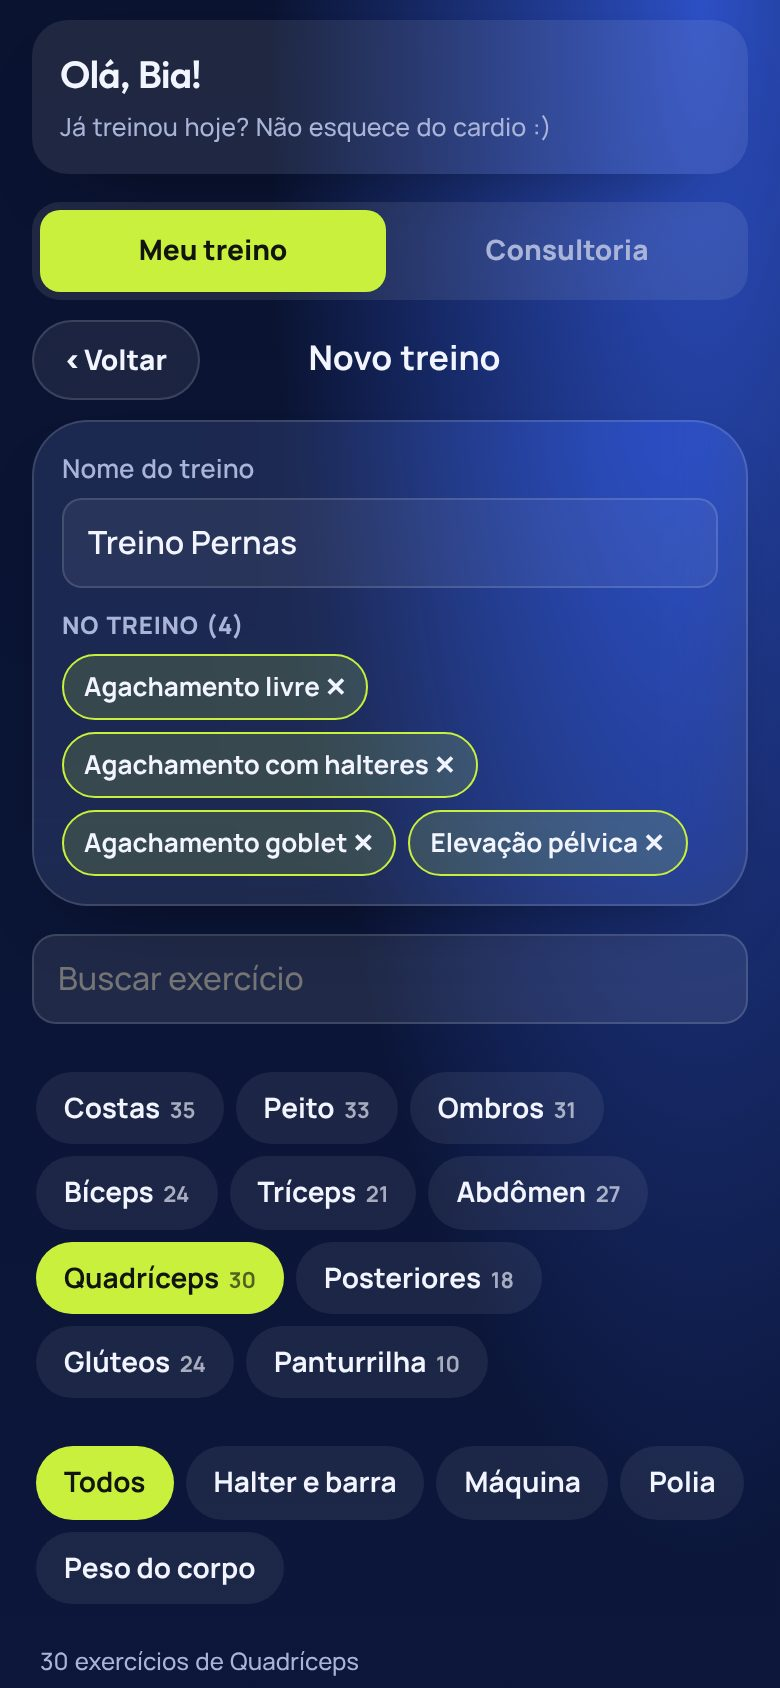
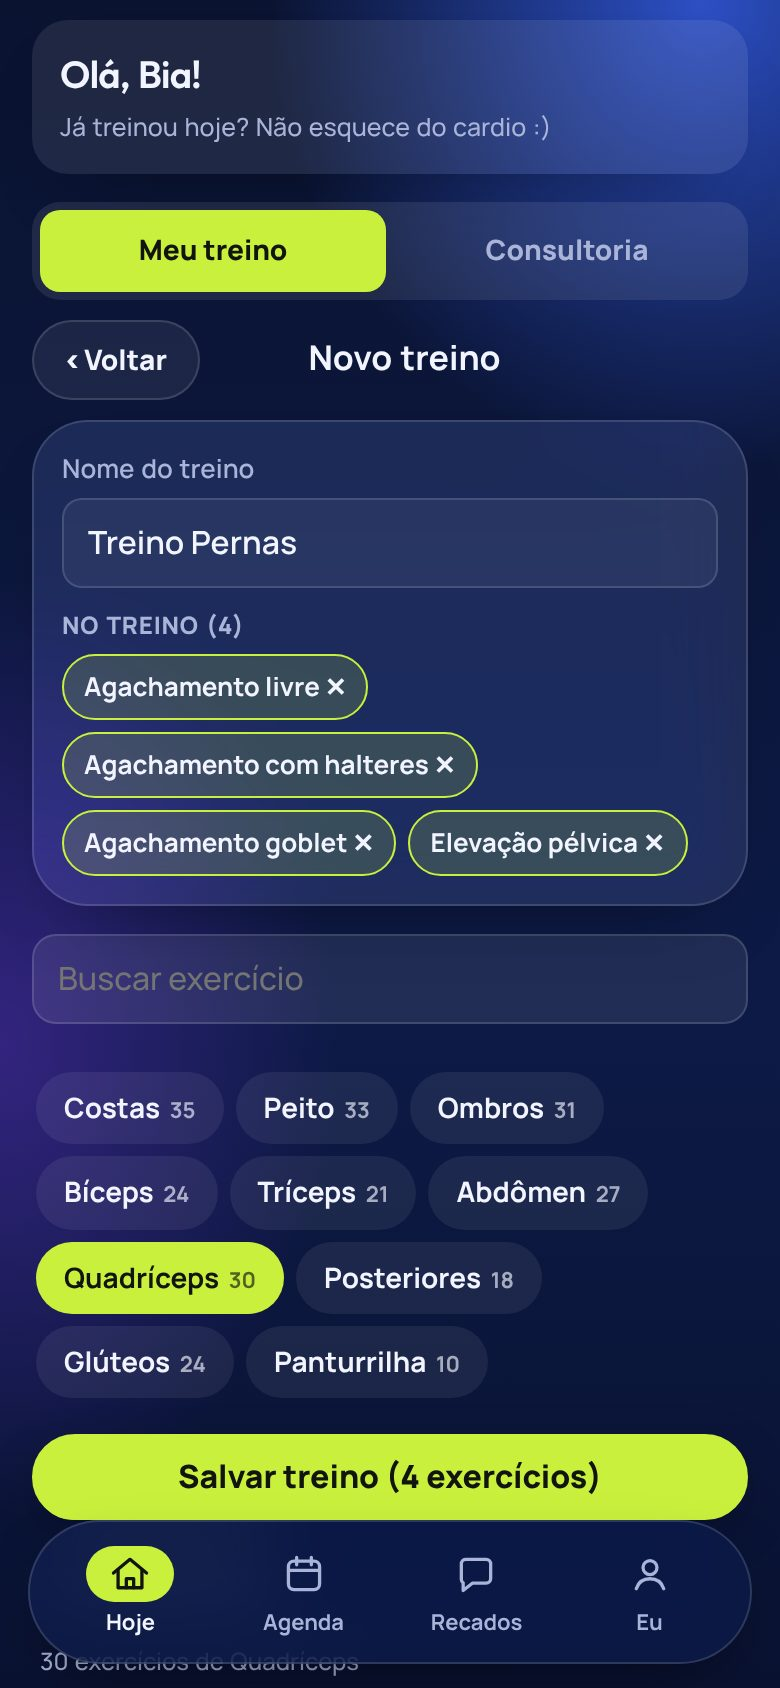
Checkup: letras proporcionais no celular e vitrine proporcional no computador
- App: títulos grandes (saudação, nome do treino, números) acompanham a largura do celular
- Vitrine: títulos menores no PC, sem zoom extra até 2400px, comparação guardada num botão,
  botões dos dois cartões alinhados, telas de exemplo atualizadas (sem aviso de modo de teste)
- Primeiro Passo: título do site proporcional, zoom menor em tela grande, 'Nível 2 de 4' não quebra

Resolve #170

Claude-Session: https://claude.ai/code/session_01KUTja7spy16vCfEPU9bZsS

diff --git a/portal/index.html b/portal/index.html
@@ -67,7 +67,7 @@ img{max-width:100%;display:block}
 @keyframes navflow{to{background-position:300% 0}}
 @keyframes navshine{0%,60%{transform:translateX(-120%)}100%{transform:translateX(120%)}}
 .card{cursor:pointer}
-.card .acts{margin-top:auto;padding-top:10px;display:flex;flex-wrap:wrap;align-items:center;gap:10px 18px}
+.card .acts{margin-top:auto;padding-top:10px;display:flex;flex-direction:column;align-items:flex-start;gap:12px}
 .card .acts .go{margin-top:0;padding-top:0}
 .card .signup{display:inline-flex;align-items:center;gap:8px;text-decoration:none;font-weight:700;font-size:16px;padding:13px 22px;border-radius:999px;transition:transform .15s,filter .15s}
 .card .signup:hover{transform:translateY(-1px);filter:brightness(1.06)}
@@ -76,15 +76,15 @@ img{max-width:100%;display:block}
 .card.pf .signup{background:#CBEF3C;color:#0B1233}
 
 /* escolha */
-.pick{padding-block:56px 64px}
+.pick{padding-block:48px 56px}
 .eyebrow{font-size:13px;font-weight:700;letter-spacing:.08em;text-transform:uppercase;color:var(--muted)}
-.pick h1{font-family:var(--pp-display);font-weight:800;font-size:clamp(34px,5.6vw,60px);letter-spacing:-.02em;margin:10px 0 12px;max-width:16ch}
-.pick .lead{color:var(--muted);font-size:clamp(16px,2vw,19px);max-width:52ch}
-.cards{display:grid;grid-template-columns:1fr 1fr;gap:18px;margin-top:36px}
+.pick h1{font-family:var(--pp-display);font-weight:800;font-size:clamp(32px,4.2vw,52px);letter-spacing:-.02em;margin:10px 0 12px;max-width:16ch}
+.pick .lead{color:var(--muted);font-size:clamp(16px,1.5vw,18px);max-width:52ch}
+.cards{display:grid;grid-template-columns:minmax(0,1fr) minmax(0,1fr);gap:18px;margin-top:30px}
 .card{position:relative;border-radius:26px;padding:28px;display:flex;flex-direction:column;gap:14px;text-decoration:none;min-width:0;overflow:hidden;transition:transform .2s,box-shadow .2s;border:1px solid transparent}
 .card:hover{transform:translateY(-3px)}
 .card .who{font-size:13px;font-weight:700;letter-spacing:.06em;text-transform:uppercase}
-.card h2{font-size:clamp(30px,4vw,42px)}
+.card h2{font-size:clamp(26px,2.8vw,34px)}
 .card p{font-size:16px;max-width:38ch}
 .card ul{list-style:none;padding:0;margin:4px 0 0;display:grid;gap:7px;font-size:15px}
 .card li{display:flex;gap:9px;align-items:flex-start}
@@ -102,7 +102,15 @@ img{max-width:100%;display:block}
 .card.pf p,.card.pf li{color:#C9D1F0}
 :root[data-theme="dark"] .card.pp,:root[data-theme="dark"] .card.pf{border-color:var(--line)}
 @media (prefers-color-scheme:dark){:root:not([data-theme="light"]) .card.pp,:root:not([data-theme="light"]) .card.pf{border-color:var(--line)}}
-.compare{margin-top:22px;border:1px solid var(--line);border-radius:18px;background:var(--surface);overflow-x:auto}
+.cmp{margin-top:26px;text-align:center}
+.cmp summary{list-style:none;display:inline-flex;align-items:center;gap:8px;cursor:pointer;font-weight:700;font-size:15px;color:var(--ink);padding:11px 18px;border-radius:999px;border:1px solid var(--line);background:var(--surface);transition:transform .2s,box-shadow .2s}
+.cmp summary::-webkit-details-marker{display:none}
+.cmp summary:hover{transform:translateY(-1px);box-shadow:0 10px 24px -14px rgba(14,19,25,.35)}
+.cmp summary svg{width:18px;height:18px;color:var(--muted)}
+.cmp summary .ch{transition:transform .25s}
+.cmp[open] summary .ch{transform:rotate(180deg)}
+.cmp .compare{text-align:left}
+.compare{margin-top:16px;border:1px solid var(--line);border-radius:18px;background:var(--surface);overflow-x:auto}
 .compare table{width:100%;border-collapse:collapse;font-size:15px;min-width:560px}
 .compare th,.compare td{padding:12px 16px;text-align:left;border-bottom:1px solid var(--line);vertical-align:top}
 .compare tr:last-child td{border-bottom:0}
@@ -118,13 +126,13 @@ img{max-width:100%;display:block}
 .hero{display:grid;grid-template-columns:1.15fr .85fr;gap:40px;align-items:center}
 .hero .tag{display:inline-flex;align-items:center;gap:8px;padding:6px 13px;border-radius:999px;font-weight:700;font-size:14px}
 .hero h1{margin:16px 0 14px;letter-spacing:-.02em}
-.hero .lead{color:var(--muted);font-size:clamp(16px,2vw,19px);max-width:44ch}
+.hero .lead{color:var(--muted);font-size:clamp(16px,1.5vw,18px);max-width:44ch}
 .ctas{display:flex;flex-wrap:wrap;gap:10px;margin-top:26px}
 .btn{display:inline-flex;align-items:center;justify-content:center;gap:8px;min-height:48px;padding:12px 22px;border-radius:999px;font-weight:700;font-size:16px;text-decoration:none;border:1.5px solid transparent;cursor:pointer}
 .btn svg{width:18px;height:18px}
 .btn.ghost{border-color:var(--line);background:var(--surface);color:var(--ink)}
 .sec{margin-top:56px}
-.sec h2{font-size:clamp(24px,3.2vw,34px);margin-bottom:8px}
+.sec h2{font-size:clamp(22px,2.4vw,30px);margin-bottom:8px}
 .sec>p{color:var(--muted);max-width:60ch;margin-bottom:22px}
 .feat{display:grid;grid-template-columns:repeat(3,1fr);gap:14px}
 .f{background:var(--surface);border:1px solid var(--line);border-radius:18px;padding:18px;display:flex;flex-direction:column;gap:8px;min-width:0}
@@ -142,15 +150,12 @@ img{max-width:100%;display:block}
 
 /* Primeiro Passo */
 #primeiro-passo h1,#primeiro-passo h2,#primeiro-passo h3{font-family:var(--pp-display);font-weight:800;color:var(--pp)}
-#primeiro-passo h1{font-size:clamp(38px,6vw,66px)}
+#primeiro-passo h1{font-size:clamp(34px,4.4vw,54px)}
 #primeiro-passo h1 em{font-style:normal;color:var(--pp-acc)}
 #primeiro-passo .tag{background:var(--pp-soft);color:var(--ink)}
 #primeiro-passo .tag svg{width:16px;height:16px;color:var(--pp-acc)}
 #primeiro-passo .btn.main{background:#1B3A5C;color:#fff}
 #primeiro-passo .f .ic{background:var(--pp-soft);color:var(--pp)}
-.shotpair{position:relative;justify-self:center;width:min(100%,420px)}
-.shotpair .site{border-radius:16px;border:1px solid var(--line);box-shadow:0 30px 60px -30px rgba(27,58,92,.5)}
-.shotpair .phone{position:absolute;right:-8px;bottom:-34px;width:34%;border-radius:18px;border:4px solid #0F1720;box-shadow:0 20px 40px -18px rgba(15,23,32,.6)}
 .levels{display:grid;grid-template-columns:repeat(4,1fr);gap:0;position:relative}
 .lv{padding:0 16px 0 0;min-width:0}
 .lv .bar{height:10px;border-radius:99px;margin-bottom:16px}
@@ -165,9 +170,9 @@ img{max-width:100%;display:block}
 /* PassosFit: mesmo visual do app (azul-noite com brilho azul e roxo, destaque verde-limão) */
 #passosfit{color:var(--pf-text);background:radial-gradient(900px 520px at 85% -5%,rgba(46,75,219,.75) 0%,rgba(46,75,219,0) 60%),radial-gradient(700px 600px at -10% 70%,rgba(76,52,170,.55) 0%,rgba(76,52,170,0) 60%),linear-gradient(180deg,#070B22 0%,#0D1440 55%,#141C55 100%)}
 #passosfit h1,#passosfit h2,#passosfit h3{font-family:var(--pf-display);font-weight:700;letter-spacing:-.025em;color:#fff}
-#passosfit h1{font-size:clamp(40px,6.4vw,68px);line-height:1.02}
+#passosfit h1{font-size:clamp(34px,4.6vw,56px);line-height:1.04}
 #passosfit h1 em{font-style:normal;color:var(--pf-lime)}
-#passosfit h2{font-size:clamp(26px,3.4vw,36px)}
+#passosfit h2{font-size:clamp(22px,2.6vw,32px)}
 #passosfit .role h3{font-size:22px}
 #passosfit .lead,#passosfit .sec>p{color:var(--pf-muted)}
 #passosfit .back{color:var(--pf-muted)}
@@ -215,7 +220,7 @@ img{max-width:100%;display:block}
 .mock .meta{display:flex;justify-content:space-between;font-size:11.5px;color:#DCE2F7}
 .stat-row{display:grid;grid-template-columns:repeat(3,1fr);gap:14px}
 .stat{background:var(--surface);border:1px solid var(--line);border-radius:18px;padding:18px}
-.stat b{display:block;font-family:var(--pf-display);font-weight:700;font-size:44px;letter-spacing:-.03em;line-height:1;color:var(--pf-lime)}
+.stat b{display:block;font-family:var(--pf-display);font-weight:700;font-size:clamp(32px,3.2vw,40px);letter-spacing:-.03em;line-height:1;color:var(--pf-lime)}
 .stat span{color:var(--muted);font-size:15px}
 
 .cross{margin-top:56px;border-radius:22px;padding:24px;display:grid;grid-template-columns:1fr auto;gap:16px;align-items:center;border:1px solid var(--line);background:var(--surface)}
@@ -239,7 +244,6 @@ footer a{color:var(--ink);font-weight:600;text-decoration:none}
   .feat,.stat-row{grid-template-columns:1fr}
   .card{padding:22px}
   .ctas .btn{width:100%}
-  .shotpair .phone{right:0}
 }
 /* celular: menu do topo compacto e tabela de comparação em blocos */
 @media (max-width:430px){
@@ -262,9 +266,9 @@ footer a{color:var(--ink);font-weight:600;text-decoration:none}
 .top nav{min-width:0}
 @media (max-width:320px){.top .wrap{gap:6px}.top nav{gap:5px}.top nav a{font-size:12.5px;padding:7px 10px;text-align:center;display:inline-flex;align-items:center;justify-content:center}}
 @media (max-width:250px){.top .wrap{padding-left:8px;padding-right:8px}.top .home{display:none}.top nav{margin:0 auto;gap:4px}.top nav a{font-size:11px;padding:6px 8px}}
-@media (min-width:1700px){html{zoom:1.15}}
-@media (min-width:2200px){html{zoom:1.35}}
-@media (min-width:3000px){html{zoom:1.7}}
+/* monitores muito grandes (TV, 4K): um pouco maior; até 2400px o tamanho normal já fica proporcional */
+@media (min-width:2400px){html{zoom:1.2}}
+@media (min-width:3200px){html{zoom:1.5}}
 @media (prefers-reduced-motion:reduce){*{transition:none!important;scroll-behavior:auto!important}}
 
 /* ---------- movimento: fundo vivo, revelar ao rolar, cartões que inclinam, telas do app ---------- */
@@ -287,7 +291,7 @@ footer a{color:var(--ink);font-weight:600;text-decoration:none}
 @keyframes sweep{0%,60%{left:-60%}100%{left:130%}}
 .marquee{margin:34px -20px 4px;overflow:hidden;-webkit-mask:linear-gradient(90deg,transparent,#000 8%,#000 92%,transparent);mask:linear-gradient(90deg,transparent,#000 8%,#000 92%,transparent)}
 .marquee>div{display:flex;align-items:center;gap:18px;width:max-content;animation:roll 34s linear infinite}
-.marquee span{font-family:var(--pf-display);font-weight:700;font-size:clamp(18px,2.4vw,26px);letter-spacing:-.01em;white-space:nowrap;color:var(--ink)}
+.marquee span{font-family:var(--pf-display);font-weight:700;font-size:clamp(16px,1.7vw,20px);letter-spacing:-.01em;white-space:nowrap;color:var(--ink)}
 .marquee i{width:9px;height:9px;border-radius:50%;background:var(--pp-acc);flex:none}
 .marquee i:nth-of-type(even){background:var(--pf-blue)}
 @keyframes roll{to{transform:translateX(-50%)}}
@@ -296,7 +300,7 @@ footer a{color:var(--ink);font-weight:600;text-decoration:none}
 .lv .bar{transform-origin:left;transition:transform 1s cubic-bezier(.2,.7,.2,1)}
 .js .lv.rv .bar{transform:scaleX(0)}
 .js .lv.rv.in .bar{transform:scaleX(1)}
-.phone3{justify-self:center;width:min(100%,300px);display:grid;gap:14px;animation:float 6s ease-in-out infinite}
+.phone3{justify-self:center;width:min(100%,280px,calc((100vh - 200px)*.462));min-width:min(100%,220px);display:grid;gap:14px;animation:float 6s ease-in-out infinite}
 .phone3 .ph{position:relative;aspect-ratio:390/844;border-radius:40px;overflow:hidden;background:#03050F;border:9px solid #03050F;box-shadow:0 40px 80px -26px rgba(5,8,30,.95),0 0 0 1px rgba(255,255,255,.1),0 0 90px -20px rgba(46,75,219,.7)}
 .phone3 img{position:absolute;inset:0;width:100%;height:100%;object-fit:cover;object-position:top;opacity:0;transform:scale(1.04);transition:opacity .8s ease,transform 1.2s ease}
 .phone3 img.on{opacity:1;transform:none}
@@ -304,7 +308,7 @@ footer a{color:var(--ink);font-weight:600;text-decoration:none}
 .phone3 .cap button{font:inherit;font-size:13px;font-weight:700;border:1px solid var(--pf-line);background:transparent;color:var(--pf-muted);border-radius:999px;padding:6px 12px;cursor:pointer;transition:background .3s,color .3s}
 .phone3 .cap button.on{background:var(--pf-lime);border-color:var(--pf-lime);color:#0B1233}
 @keyframes float{0%,100%{transform:translateY(0)}50%{transform:translateY(-12px)}}
-.shotpair .phone{animation:float 7s ease-in-out infinite}
+.phone3.pp1 .ph{background:#fff;border-color:#0F1720;box-shadow:0 40px 80px -30px rgba(27,58,92,.6),0 0 0 1px rgba(15,23,32,.12),0 0 90px -24px rgba(224,169,59,.55)}
 .stat b{font-variant-numeric:tabular-nums}
 
 /* ---------- páginas de cada plataforma: fundo vivo, título que entra, cartões com luz, níveis que andam ---------- */
@@ -379,10 +383,7 @@ footer a{color:var(--ink);font-weight:600;text-decoration:none}
 .prog{position:fixed;left:0;right:0;top:0;height:3px;z-index:11;transform-origin:left;transform:scaleX(0);pointer-events:none;background:linear-gradient(90deg,#2E4BDB,#E0A93B,#CBEF3C)}
 body[data-view="primeiro-passo"] .prog{background:linear-gradient(90deg,#1B3A5C,#E0A93B)}
 body[data-view="passosfit"] .prog{background:linear-gradient(90deg,#2E4BDB,#CBEF3C);box-shadow:0 0 10px #CBEF3C}
-/* fotos do Primeiro Passo entram com leve giro */
-.shotpair .site{transition:transform .6s cubic-bezier(.2,.7,.2,1)}
-.shotpair:hover .site{transform:perspective(900px) rotateY(-6deg) rotateX(2deg) scale(1.02)}
-@media (prefers-reduced-motion:reduce){.area h1 em .w,.area .btn.main,.area .btn.main::before,.area .cross::before,.lv.now .bar::after,.lv.now small,.top nav a,.top nav a::after,.aurora i,.grad,.marquee>div,.phone3,.shotpair .phone,.card .signup::before{animation:none!important}.js .rv,.js .lv.rv .bar,.js .area h1 .w{opacity:1!important;transform:none!important;filter:none!important}}
+@media (prefers-reduced-motion:reduce){.area h1 em .w,.area .btn.main,.area .btn.main::before,.area .cross::before,.lv.now .bar::after,.lv.now small,.top nav a,.top nav a::after,.aurora i,.grad,.marquee>div,.phone3,.card .signup::before{animation:none!important}.js .rv,.js .lv.rv .bar,.js .area h1 .w{opacity:1!important;transform:none!important;filter:none!important}}
 </style>
 </head>
 <body>
@@ -438,6 +439,7 @@ body[data-view="passosfit"] .prog{background:linear-gradient(90deg,#2E4BDB,#CBEF
   </div>
   <div class="marquee" aria-hidden="true"><div><span>Do zero à academia</span><i></i><span>Anote suas cargas</span><i></i><span>Bata suas metas</span><i></i><span>No seu tempo</span><i></i><span>Treino do dia no celular</span><i></i><span>Primeira conversa grátis</span><i></i><span>Veja a sua evolução</span><i></i><span>Sem fidelidade</span><i></i><span>Do zero à academia</span><i></i><span>Anote suas cargas</span><i></i><span>Bata suas metas</span><i></i><span>No seu tempo</span><i></i><span>Treino do dia no celular</span><i></i><span>Primeira conversa grátis</span><i></i><span>Veja a sua evolução</span><i></i><span>Sem fidelidade</span><i></i></div></div>
 
+  <details class="cmp"><summary><svg viewBox="0 0 24 24" fill="none" stroke="currentColor" stroke-width="2.2" stroke-linecap="round" stroke-linejoin="round"><path d="M8 3v18M16 3v18M3 8h18M3 16h18"/></svg>Comparar as duas plataformas<svg class="ch" viewBox="0 0 24 24" fill="none" stroke="currentColor" stroke-width="2.4" stroke-linecap="round" stroke-linejoin="round"><path d="m6 9 6 6 6-6"/></svg></summary>
   <div class="compare" role="region" aria-label="Comparação entre as plataformas" tabindex="0">
     <table>
       <thead><tr><th></th><th>Primeiro Passo</th><th>PassosFit</th></tr></thead>
@@ -448,7 +450,7 @@ body[data-view="passosfit"] .prog{background:linear-gradient(90deg,#2E4BDB,#CBEF
         <tr><td>Para começar</td><td class="pp-c">Conversa grátis de 15 minutos</td><td class="pf-c">Crie sua conta direto no app</td></tr>
       </tbody>
     </table>
-  </div>
+  </div></details>
 </div></section>
 
 <!-- ===================== PRIMEIRO PASSO ===================== -->
@@ -464,9 +466,8 @@ body[data-view="passosfit"] .prog{background:linear-gradient(90deg,#2E4BDB,#CBEF
         <a class="btn ghost" data-link="primeiroPassoEntrar" href="../primeiro-passo/#/entrar">Já tenho conta</a>
       </div>
     </div>
-    <div class="shotpair">
-      <img class="site" src="img/primeiro-passo-site.png" alt="Página inicial do Primeiro Passo">
-      <img class="phone" src="img/primeiro-passo-app.png" alt="App do aluno do Primeiro Passo no celular">
+    <div class="phone3 pp1" role="img" aria-label="App do aluno do Primeiro Passo no celular, com uma aluna de exemplo">
+      <div class="ph"><img class="on" src="img/primeiro-passo-app.jpg" alt="" width="780" height="1688"></div>
     </div>
   </div>
 
@@ -605,7 +606,7 @@ addEventListener("popstate",fromHash);
 /* ---------- movimento ---------- */
 const calm=matchMedia("(prefers-reduced-motion: reduce)").matches;
 /* revela cada bloco ao rolar, um depois do outro */
-const RV=".card,.compare,.marquee,.sec>h2,.sec>p,.f,.lv,.stat,.role,.cross,.hero>div,.levels";
+const RV=".card,.cmp,.marquee,.sec>h2,.sec>p,.f,.lv,.stat,.role,.cross,.hero>div,.levels";
 document.querySelectorAll(RV).forEach(el=>{if(el.closest(".mock"))return;el.classList.add("rv");const sib=[...el.parentElement.children].filter(x=>x.matches(RV));el.style.transitionDelay=Math.min(sib.indexOf(el),5)*90+"ms"});
 const countUp=b=>{const n=+b.dataset.n;if(calm||!n){b.textContent=n;return}const t0=performance.now();const step=t=>{const k=Math.min(1,(t-t0)/1400);b.textContent=Math.round(n*(1-Math.pow(1-k,3)));if(k<1)requestAnimationFrame(step)};b.textContent="0";requestAnimationFrame(step)};
 const io=window.io="IntersectionObserver" in window?new IntersectionObserver(es=>es.forEach(e=>{if(!e.isIntersecting)return;e.target.classList.add("in");e.target.querySelectorAll("[data-n]").forEach(countUp);io.unobserve(e.target)}),{threshold:.12,rootMargin:"0px 0px -6% 0px"}):null;

diff --git a/primeiro-passo/index.html b/primeiro-passo/index.html
@@ -72,7 +72,7 @@ i[data-lucide],svg.lucide{width:20px;height:20px;stroke-width:1.9;flex:none}
 .hero .wrap{display:grid;grid-template-columns:1.3fr .9fr;gap:48px;align-items:center}
 .tag{display:inline-flex;align-items:center;gap:8px;background:var(--gold-soft);padding:6px 13px;border-radius:999px;font-weight:600;font-size:14px}
 .tag svg{width:16px;height:16px;color:var(--gold)}
-.hero h1{font-size:clamp(44px,6.6vw,78px);font-weight:800;line-height:.98;letter-spacing:-.03em;margin:20px 0}
+.hero h1{font-size:clamp(36px,calc(3vw + 26px),64px);font-weight:800;line-height:.98;letter-spacing:-.03em;margin:20px 0}
 .hero h1 em{font-style:normal;color:var(--gold)}
 .hero .lead{font-size:19px;color:var(--muted);max-width:34ch}
 .hero .ctas{display:flex;flex-wrap:wrap;gap:10px;margin-top:28px}
@@ -105,7 +105,7 @@ i[data-lucide],svg.lucide{width:20px;height:20px;stroke-width:1.9;flex:none}
 
 .sec{padding:72px 0;border-top:1px solid var(--line)}
 .sec-h{max-width:620px;margin-bottom:36px}
-.sec-h h2{font-size:clamp(30px,4vw,44px);font-weight:800}
+.sec-h h2{font-size:clamp(26px,calc(1.6vw + 20px),40px);font-weight:800}
 .sec-h p{color:var(--muted);font-size:17px;margin-top:10px}
 .kicker{color:var(--gold);font-weight:700;font-size:15px;margin-bottom:10px;display:block}
 
@@ -403,7 +403,8 @@ body.ux .role:hover::after{opacity:1}
 .lvsteps i.cur{background:linear-gradient(90deg,#E0A93B var(--p,0%),rgba(255,255,255,.18) var(--p,0%))}
 .lvcard .meta{display:flex;justify-content:space-between;font-size:13px;color:#C9D8EA}
 .block{margin-top:24px}
-.block-h{display:flex;justify-content:space-between;align-items:baseline;margin-bottom:12px}
+.block-h{display:flex;justify-content:space-between;align-items:baseline;gap:10px;margin-bottom:12px}
+.block-h h3{min-width:0}.block-h>a,.block-h>.link{white-space:nowrap;flex:none}
 .block-h h3{font-size:20px}
 .block-h a,.link{color:var(--blue);font-weight:700;font-size:14px;text-decoration:none;min-height:40px;display:inline-flex;align-items:center;padding:0 4px}
 .tasks{display:grid;gap:10px}
@@ -873,9 +874,8 @@ body .ap-hero .btn-primary,body.ux .ap-hero .btn-primary{background:linear-gradi
   .pn-mtop{margin-inline:-16px;padding-inline:16px}
   .kpis{grid-template-columns:1fr}
   .minis{grid-template-columns:1fr 1fr}
-  .pn-tabbar a{font-size:10px}
+  .pn-tabbar a{font-size:10.5px}
   .tabbar svg{width:21px;height:21px}
-  .hero h1{font-size:40px}
   .mood .row{grid-template-columns:1fr 1fr}
   .feel,.bpick{gap:6px}
   .ring,.ring svg{width:170px;height:170px}
@@ -1358,9 +1358,9 @@ img,video,canvas{max-width:100%}
 .plans>*,.pcard,.lead,.stat{min-width:0}
 /* PC de tela grande: o site cresce junto em vez de ficar pequeno no meio */
 @media (min-width:1400px){.wrap{max-width:1220px}}
-@media (min-width:1700px){html{zoom:1.2}}
-@media (min-width:2200px){html{zoom:1.35}}
-@media (min-width:3000px){html{zoom:1.7}}
+@media (min-width:1700px){html{zoom:1.1}}
+@media (min-width:2200px){html{zoom:1.25}}
+@media (min-width:3000px){html{zoom:1.5}}
 @media (max-width:340px){
   body{overflow-wrap:anywhere}
   .wrap{padding-left:12px;padding-right:12px}

diff --git a/index.html b/index.html
@@ -1237,6 +1237,15 @@ img,video,canvas{max-width:100%}
 .v2-top .v2-brand{min-width:0}
 .v2-howto{flex-wrap:wrap}.v2-howto .grow{min-width:0}
 .v2-badges{grid-template-columns:repeat(3,minmax(0,1fr))}
+/* celular: títulos grandes acompanham a largura da tela (nem enormes num celular estreito, nem pequenos num grande) */
+@media (max-width:480px){
+  .v2-greet,.v2-ph-title h1,.v2-rest{font-size:clamp(24px,7.4vw,30px)}
+  .v2-wtitle h1{font-size:clamp(22px,6.8vw,28px)}
+  .v2-gv b{font-size:clamp(26px,7.6vw,30px)}
+  .v2-tile b{font-size:clamp(22px,6.4vw,26px)}
+  .v2-tile b.xl{font-size:clamp(32px,9.6vw,40px)}
+  .v2-hello{font-size:clamp(22px,6.4vw,26px)}
+}
 @media (max-width:359px){
   main{padding-left:max(10px,env(safe-area-inset-left));padding-right:max(10px,env(safe-area-inset-right))}
   body{overflow-wrap:anywhere}
@@ -1248,15 +1257,12 @@ img,video,canvas{max-width:100%}
   .v2-fld.pm input{padding:0 16px 12px}
   .v2-pm{width:18px}
   .v2-pm .v2i{width:12px;height:12px}
-  .v2-fld small{font-size:9.5px}
+  .v2-fld small{font-size:10px}
   .v2-howto-anim{width:100%;height:96px}
   .v2-eq{flex-wrap:wrap}
   .v2-exh{gap:8px;padding:10px}
   .v2-thumb{width:48px;height:48px}
   .v2-tile{padding:12px;min-height:100px}
-  .v2-tile b{font-size:24px}
-  .v2-ph-title h1,.v2-rest{font-size:28px}
-  .v2-wtitle h1{font-size:26px}
   .v2-whead{margin:0 -10px}
   .pill,.wk-rt small{white-space:normal}
   .wsnav{flex-wrap:wrap;margin-left:0}
@@ -8267,7 +8273,7 @@ document.getElementById('authForgot').onclick = async () => {
 
 // ---------- Atualização automática ----------
 // O celular guarda uma cópia do app; ao abrir (ou voltar para o app), confere se há versão nova e recarrega.
-const APP_VERSION = '28/10-23:50';
+const APP_VERSION = '29/10-01:55';
 async function checkUpdate() {
   if (!/^https?:/.test(location.protocol)) return;
   try {
